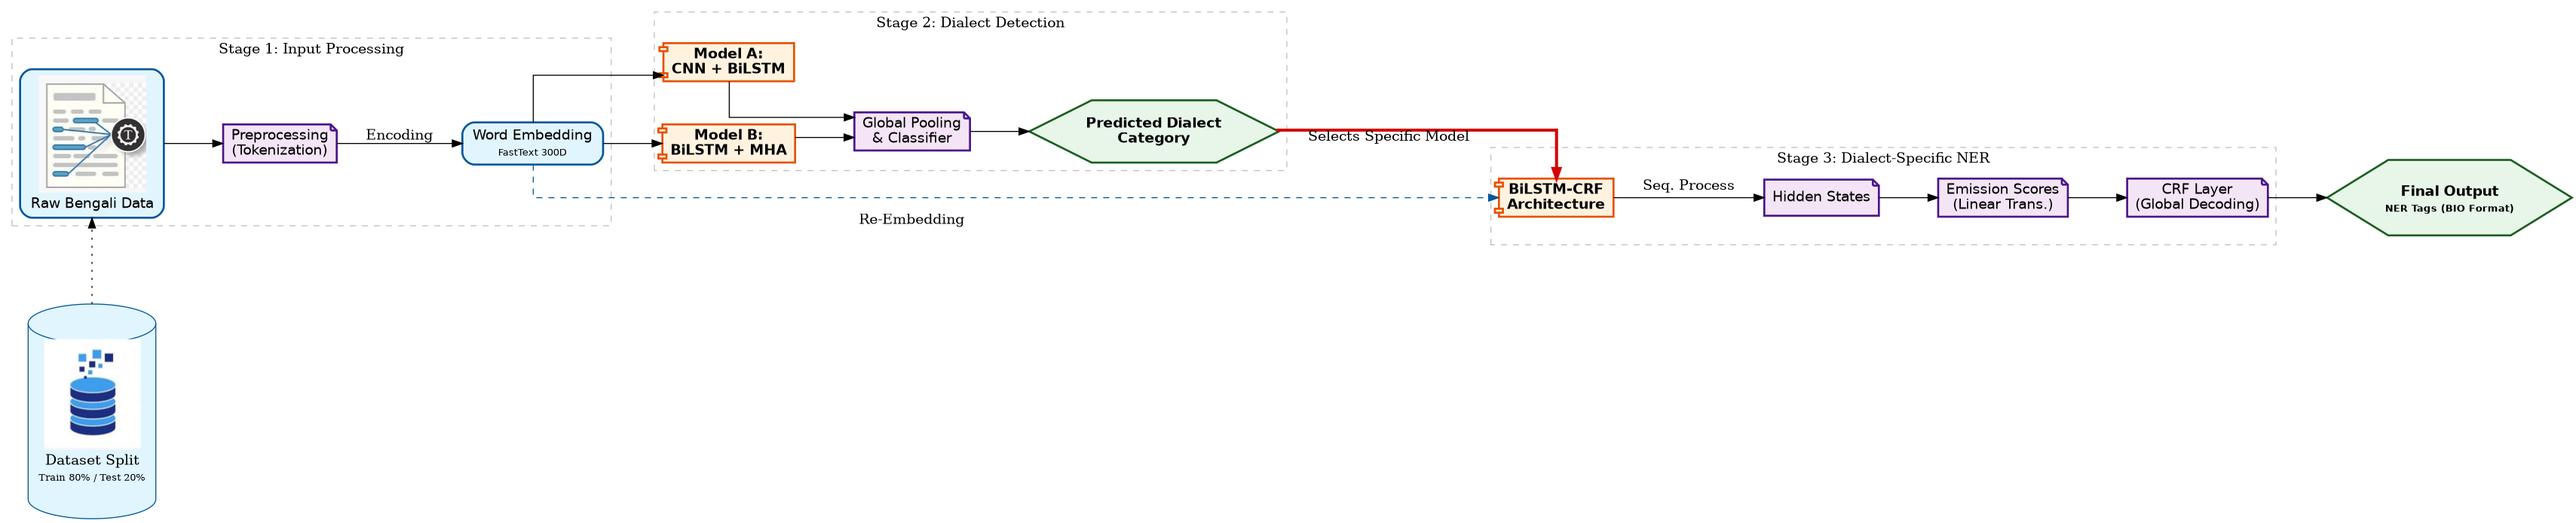
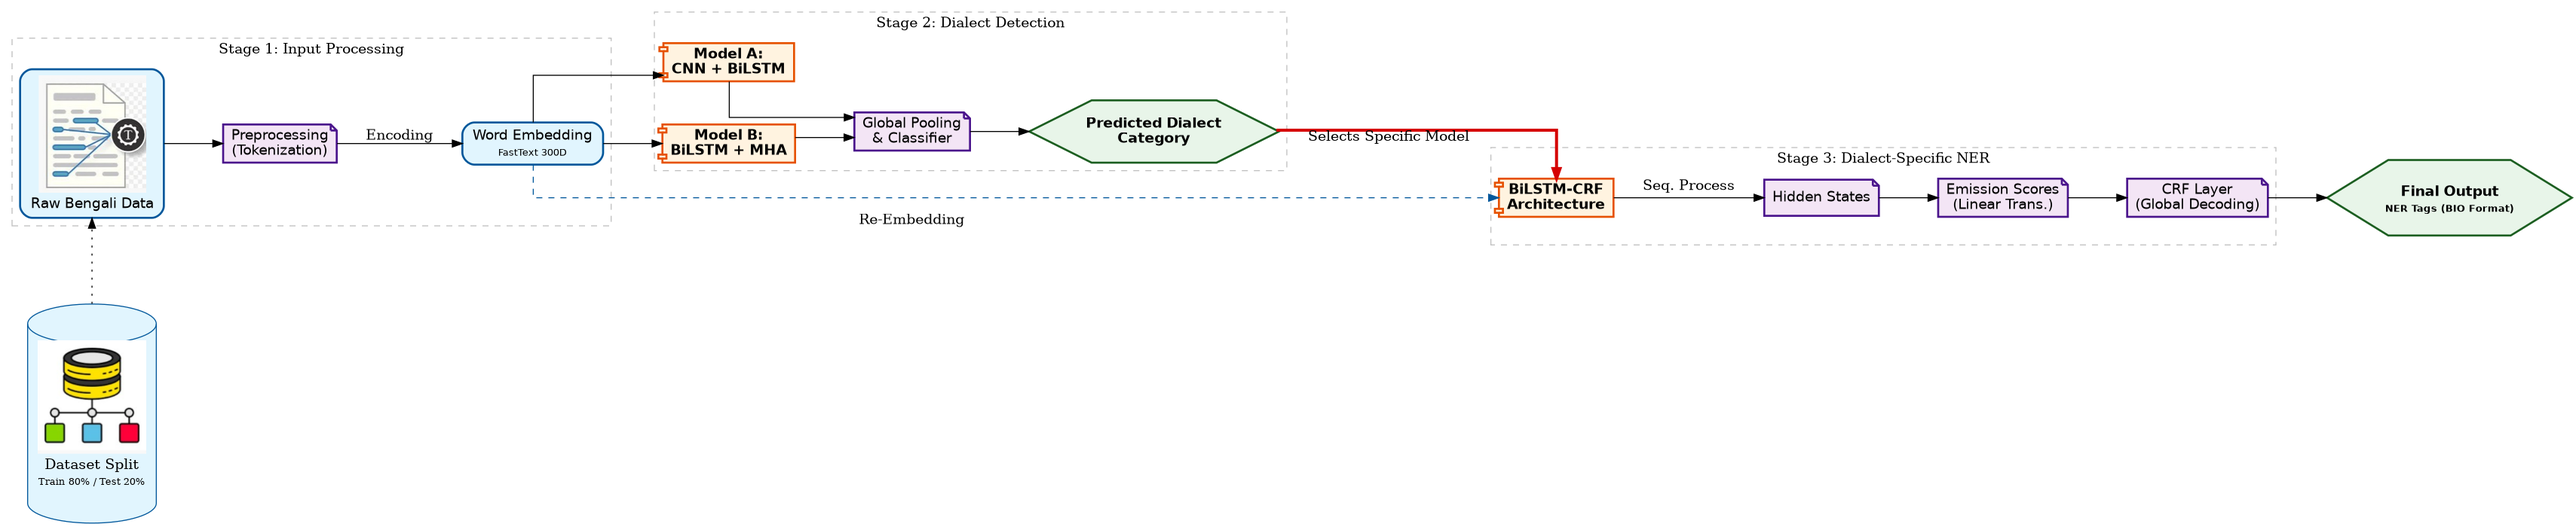
diagram 2 done

diff --git a/diagram/item2.py b/diagram/item2.py
@@ -1,0 +1,112 @@
+from graphviz import Digraph
+
+def create_dialect_diagram():
+    # Initialize the graph
+    # 'LR' sets the direction from Left to Right (Horizontal)
+    dot = Digraph('Dialect_Detection_Flow', comment='Dialect Detection Architecture')
+    dot.attr(rankdir='LR', splines='ortho', nodesep='0.6', ranksep='0.6')
+    
+    # --- Define Styles (Consistent with previous diagram) ---
+    # Data/Input Nodes (Blueish)
+    data_attr = {
+        'shape': 'box', 
+        'style': 'filled, rounded', 
+        'fillcolor': '#e1f5fe', 
+        'color': '#01579b', 
+        'penwidth': '2',
+        'fontname': 'Helvetica'
+    }
+    
+    # Processing/Layer Nodes (Purpleish)
+    process_attr = {
+        'shape': 'note', 
+        'style': 'filled', 
+        'fillcolor': '#f3e5f5', 
+        'color': '#4a148c', 
+        'penwidth': '2',
+        'fontname': 'Helvetica'
+    }
+    
+    # Deep Learning Model Nodes (Orangeish)
+    model_attr = {
+        'shape': 'component', 
+        'style': 'filled', 
+        'fillcolor': '#fff3e0', 
+        'color': '#e65100', 
+        'penwidth': '2',
+        'fontname': 'Helvetica-Bold'
+    }
+    
+    # Result/Output Nodes (Greenish)
+    result_attr = {
+        'shape': 'hexagon', 
+        'style': 'filled', 
+        'fillcolor': '#e8f5e9', 
+        'color': '#1b5e20', 
+        'penwidth': '2',
+        'fontname': 'Helvetica-Bold'
+    }
+
+    # --- Constructing the Graph ---
+
+    # 1. Input Stage
+    with dot.subgraph(name='cluster_input') as c:
+        c.attr(label='Preprocessing Phase', style='dashed', color='grey')
+        
+        c.node('Input', 'Input Sentence', **data_attr)
+        c.node('Token', 'Tokenization &\nVocabulary Mapping', **process_attr)
+        
+        # Using HTML label for FastText to include details
+        label_emb = '<<TABLE BORDER="0" CELLBORDER="0" CELLSPACING="0"><TR><TD><B>Word Embedding</B></TD></TR><TR><TD><FONT POINT-SIZE="10">FastText (300D)</FONT></TD></TR></TABLE>>'
+        c.node('Emb', label_emb, **data_attr)
+        
+        c.edge('Input', 'Token')
+        c.edge('Token', 'Emb', label='Token IDs')
+
+    # 2. Parallel Model Architecture
+    with dot.subgraph(name='cluster_models') as c:
+        c.attr(label='Feature Extraction Architectures', style='dashed', color='grey')
+        
+        # Branch 1: CNN + BiLSTM
+        label_m1 = '<<TABLE BORDER="0" CELLBORDER="0" CELLSPACING="0"><TR><TD><B>Model A</B></TD></TR><TR><TD>CNN + BiLSTM</TD></TR><TR><TD><FONT POINT-SIZE="10">(Local n-gram features)</FONT></TD></TR></TABLE>>'
+        c.node('Model_CNN', label_m1, **model_attr)
+        
+        # Branch 2: BiLSTM + MHA
+        label_m2 = '<<TABLE BORDER="0" CELLBORDER="0" CELLSPACING="0"><TR><TD><B>Model B</B></TD></TR><TR><TD>BiLSTM + MHA</TD></TR><TR><TD><FONT POINT-SIZE="10">(Global Context & Attention)</FONT></TD></TR></TABLE>>'
+        c.node('Model_MHA', label_m2, **model_attr)
+
+    # 3. Aggregation & Classification
+    with dot.subgraph(name='cluster_output') as c:
+        c.attr(label='Classification Head', style='dashed', color='grey')
+        
+        # Pooling Node
+        label_pool = '<<TABLE BORDER="0" CELLBORDER="0" CELLSPACING="0"><TR><TD><B>Global Pooling</B></TD></TR><TR><TD>Max & Average</TD></TR><TR><TD><FONT POINT-SIZE="10">Fixed Size Vector (512D)</FONT></TD></TR></TABLE>>'
+        c.node('Pool', label_pool, **process_attr)
+        
+        c.node('Dense', 'Dense Layer', **process_attr)
+        c.node('Softmax', 'Softmax\nActivation', **process_attr)
+        
+        # Final Output with Icon Placeholder
+        label_out = '<<TABLE BORDER="0" CELLBORDER="0" CELLSPACING="0"><TR><TD><IMG SRC="PLACEHOLDER_ICON"/></TD></TR><TR><TD>Dialect Class</TD></TR></TABLE>>'
+        c.node('Output', label_out, **result_attr)
+        
+        c.edge('Pool', 'Dense')
+        c.edge('Dense', 'Softmax')
+        c.edge('Softmax', 'Output')
+
+    # --- Connections (Wiring the Graph) ---
+    
+    # Connect Embedding to BOTH models (Parallel split)
+    dot.edge('Emb', 'Model_CNN')
+    dot.edge('Emb', 'Model_MHA')
+    
+    # Connect BOTH models to Pooling (Merge/Concat)
+    dot.edge('Model_CNN', 'Pool')
+    dot.edge('Model_MHA', 'Pool')
+
+    # Render
+    dot.render('dialect_detection_diagram', format='png', view=True)
+    print("Diagram generated successfully as 'dialect_detection_diagram.png'")
+
+if __name__ == "__main__":
+    create_dialect_diagram()
